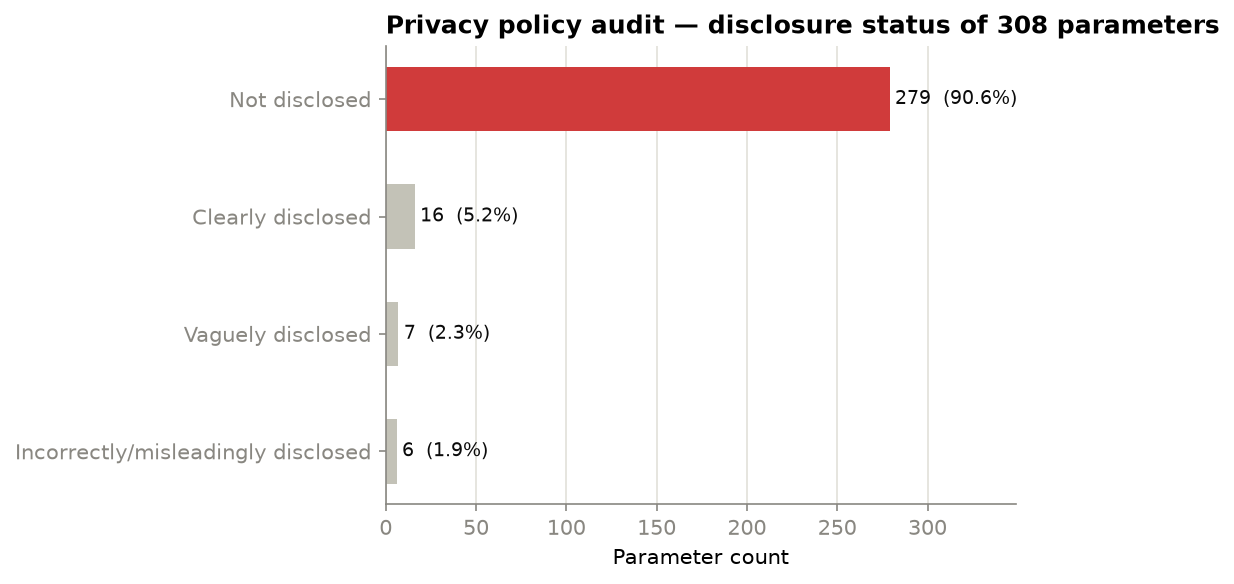
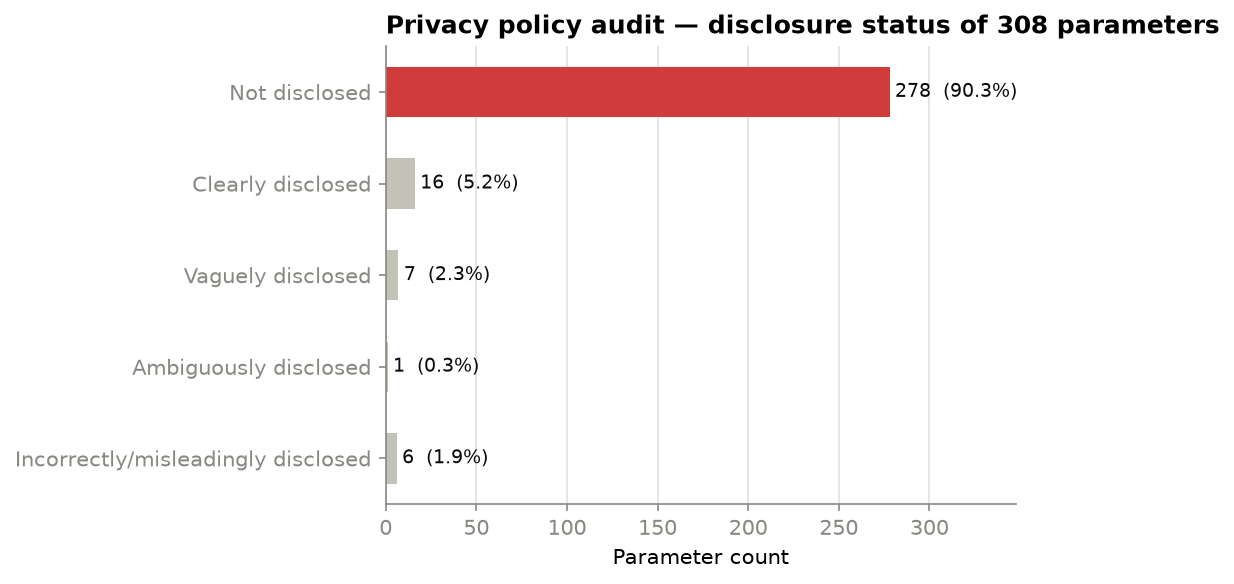
Fix AMBIGUOUS handling in privacy-policy disclosure audit
item_disclosure_status() now checks AMBIGUOUS explicitly, between VAGUE
and INCORRECT, matching the source paper's own 5-label priority order
(CLEAR > VAGUE > AMBIGUOUS > INCORRECT > OMITTED). Previously the 1
record among the 308 audited parameters whose only informative label
was AMBIGUOUS was silently folded into UNDISCLOSED.

Re-ran bolum3_uygulama.ipynb; the corrected breakdown is 278 UNDISCLOSED
(90.3%) + 16 CLEAR (5.2%) + 7 VAGUE (2.3%) + 6 INCORRECT (1.9%) +
1 AMBIGUOUS (0.3%) = 308, replacing the previous 279/16/7/6 split.
Updated the chart (now 5 bars), README, rq6_policy_audit.md, and
project_facts.json to match, and copied the regenerated chart into
backend/static/charts/ so the chatbot serves the corrected image.

diff --git a/backend/knowledge/rq6_policy_audit.md b/backend/knowledge/rq6_policy_audit.md
@@ -8,19 +8,20 @@ Note: this is about the plugin's **privacy policy document** — separate legal/
 
 ## Data source and scope
 
-This uses a separate, smaller dataset (`backend/final_results/`, 381 plugin files) produced and published by the authors of the source paper (Wu et al., 2025, IMC '25 — see the project README's Data Sources & Attribution section), not generated as part of this project's own analysis. In it, each collected data parameter was matched against sentences extracted from that plugin's own privacy policy, and each candidate sentence was labeled `CLEAR` (clearly discloses it), `VAGUE` (vaguely discloses it), `INCORRECT` (disclosure is wrong/misleading), or `OMITTED` (that particular sentence doesn't disclose it) — the source paper's own taxonomy also includes a fifth label, `AMBIGUOUS`, which does appear in the raw `backend/final_results/` data (3 records across 381 files) but is not handled as a distinct category by this project's audit logic below; records where `AMBIGUOUS` is the only informative label (1 of the 308 audited) are folded into `UNDISCLOSED`. Only 184 of the 381 files had any policy text to compare against. This audit uses its own category labels (e.g. "Email address", "User IDs", "Approximate location"), which are a different, finer, hand-labeled taxonomy from the `main_data_type`/`data_type` categories used in the main 12,811-record dataset — the two are not directly comparable one-to-one.
+This uses a separate, smaller dataset (`backend/final_results/`, 381 plugin files) produced and published by the authors of the source paper (Wu et al., 2025, IMC '25 — see the project README's Data Sources & Attribution section), not generated as part of this project's own analysis. In it, each collected data parameter was matched against sentences extracted from that plugin's own privacy policy, and each candidate sentence was labeled with one of five categories from the source paper's own taxonomy: `CLEAR` (clearly discloses it), `VAGUE` (vaguely discloses it), `AMBIGUOUS` (unclear whether it discloses it), `INCORRECT` (disclosure is wrong/misleading), or `OMITTED` (that particular sentence doesn't disclose it). Only 184 of the 381 files had any policy text to compare against. This audit uses its own category labels (e.g. "Email address", "User IDs", "Approximate location"), which are a different, finer, hand-labeled taxonomy from the `main_data_type`/`data_type` categories used in the main 12,811-record dataset — the two are not directly comparable one-to-one.
 
 ## Method
 
-Each parameter has many candidate policy sentences checked against it (most are automatically irrelevant, hence labeled OMITTED for that sentence). A parameter's overall disclosure status is determined by its *best* matching sentence: if any sentence is CLEAR, the parameter counts as disclosed (clearly); otherwise VAGUE if any; otherwise INCORRECT if any; only if every checked sentence is OMITTED does the parameter count as genuinely undisclosed.
+Each parameter has many candidate policy sentences checked against it (most are automatically irrelevant, hence labeled OMITTED for that sentence). A parameter's overall disclosure status is determined by its *best* matching sentence, using the source paper's own label priority: CLEAR first, then VAGUE, then AMBIGUOUS, then INCORRECT; only if every checked sentence is OMITTED does the parameter count as genuinely undisclosed. In practice AMBIGUOUS is extremely rare in this dataset — only 1 of the 308 audited parameters resolves to it.
 
 ## Finding
 
 Across 308 parameters with comparable policy text:
-- **90.6% (279) are UNDISCLOSED** — no sentence anywhere in the plugin's privacy policy discloses this data collection.
+- **90.3% (278) are UNDISCLOSED** — no sentence anywhere in the plugin's privacy policy discloses this data collection.
 - 5.2% (16) are clearly disclosed.
 - 2.3% (7) are vaguely disclosed.
 - 1.9% (6) are disclosed but incorrectly/misleadingly.
+- 0.3% (1) is ambiguously disclosed.
 
 ## Interpretation
 

diff --git a/README.md b/README.md
@@ -18,7 +18,7 @@ Using the `gpt-data-exposure` dataset — 12,811 parameter records collected by 
 | 4 | Do plugins naturally cluster into risky vs. safe groups? | No clean binary split — clustering surfaces **functional/thematic groups** instead (finance, travel, messaging, general-purpose, ...), with sensitive-data share spread gradually across them (0%–16.1%) rather than jumping between two clusters |
 | 5 | Can records mislabeled "Other" be identified automatically? | Partially — only **11.6%** of "Other" records get a high-confidence re-classification, but that subset does catch genuinely mislabeled sensitive data (e.g. parameters literally named `email`, `key`, `token`) |
 
-A sixth, supplementary finding — whether plugins disclose what they collect in their actual privacy policies — comes from a separate audit dataset (see **Data Sources & Attribution** below): across 308 comparable parameters, **90.6% are never disclosed** in the plugin's privacy policy at all. Note that the source paper labels disclosure with 5 categories (CLEAR/VAGUE/AMBIGUOUS/INCORRECT/OMITTED); this project's audit logic (`item_disclosure_status` in Part 3) only distinguishes 4 of them (CLEAR/VAGUE/INCORRECT/UNDISCLOSED) — it has no explicit `AMBIGUOUS` branch, so the rare records where `AMBIGUOUS` is the only informative label (1 of the 308) are folded into `UNDISCLOSED` rather than reported separately.
+A sixth, supplementary finding — whether plugins disclose what they collect in their actual privacy policies — comes from a separate audit dataset (see **Data Sources & Attribution** below): across 308 comparable parameters, **90.3% (278) are never disclosed** in the plugin's privacy policy at all; the rest are clearly disclosed (5.2%, 16), vaguely disclosed (2.3%, 7), incorrectly/misleadingly disclosed (1.9%, 6), or ambiguously disclosed (0.3%, 1). This project's audit logic (`item_disclosure_status` in Part 3) now supports all 5 of the source paper's disclosure labels (CLEAR/VAGUE/AMBIGUOUS/INCORRECT/OMITTED), prioritized in that order.
 
 ## Methodology
 
